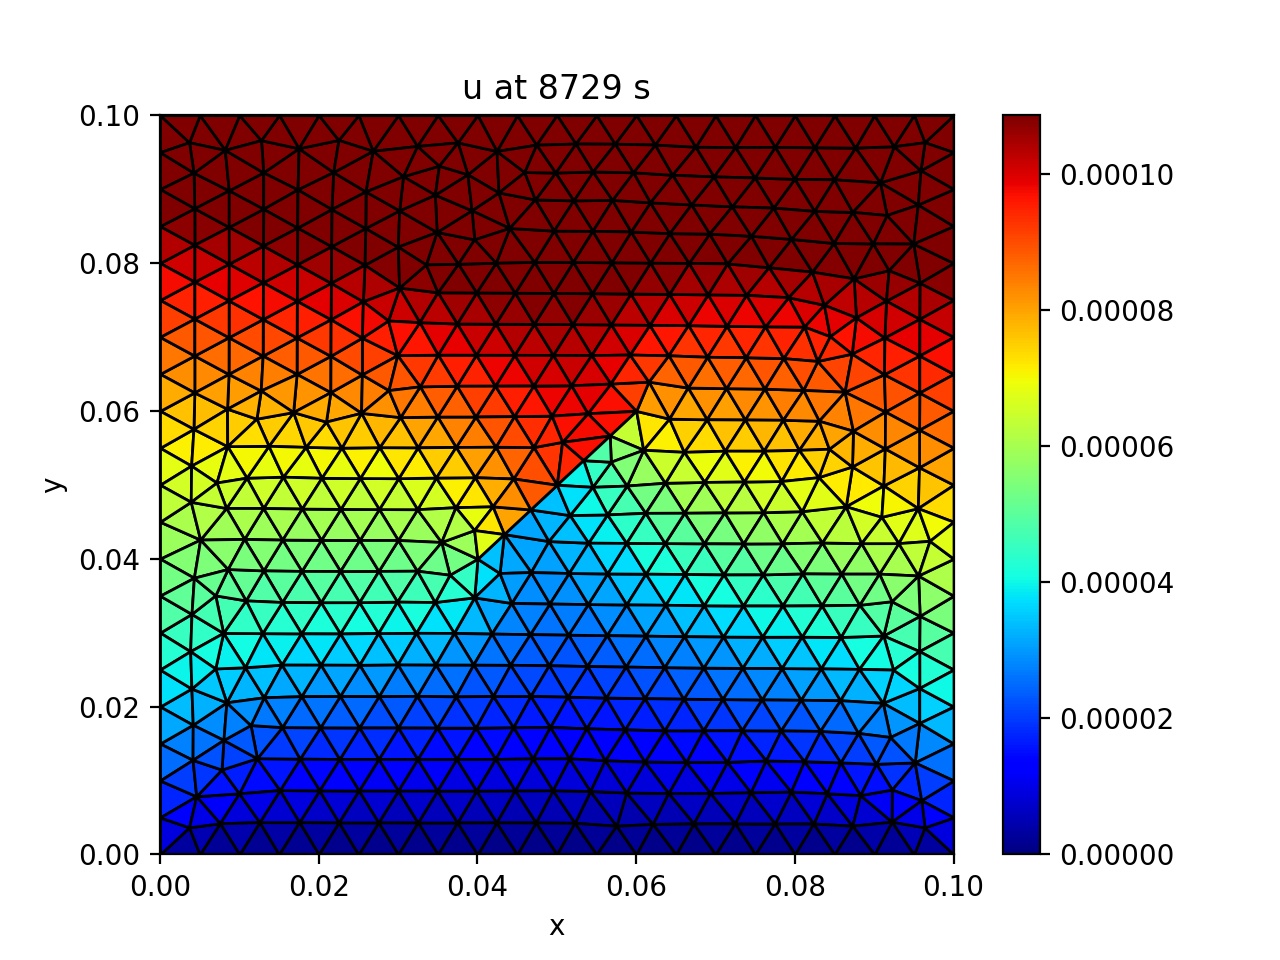
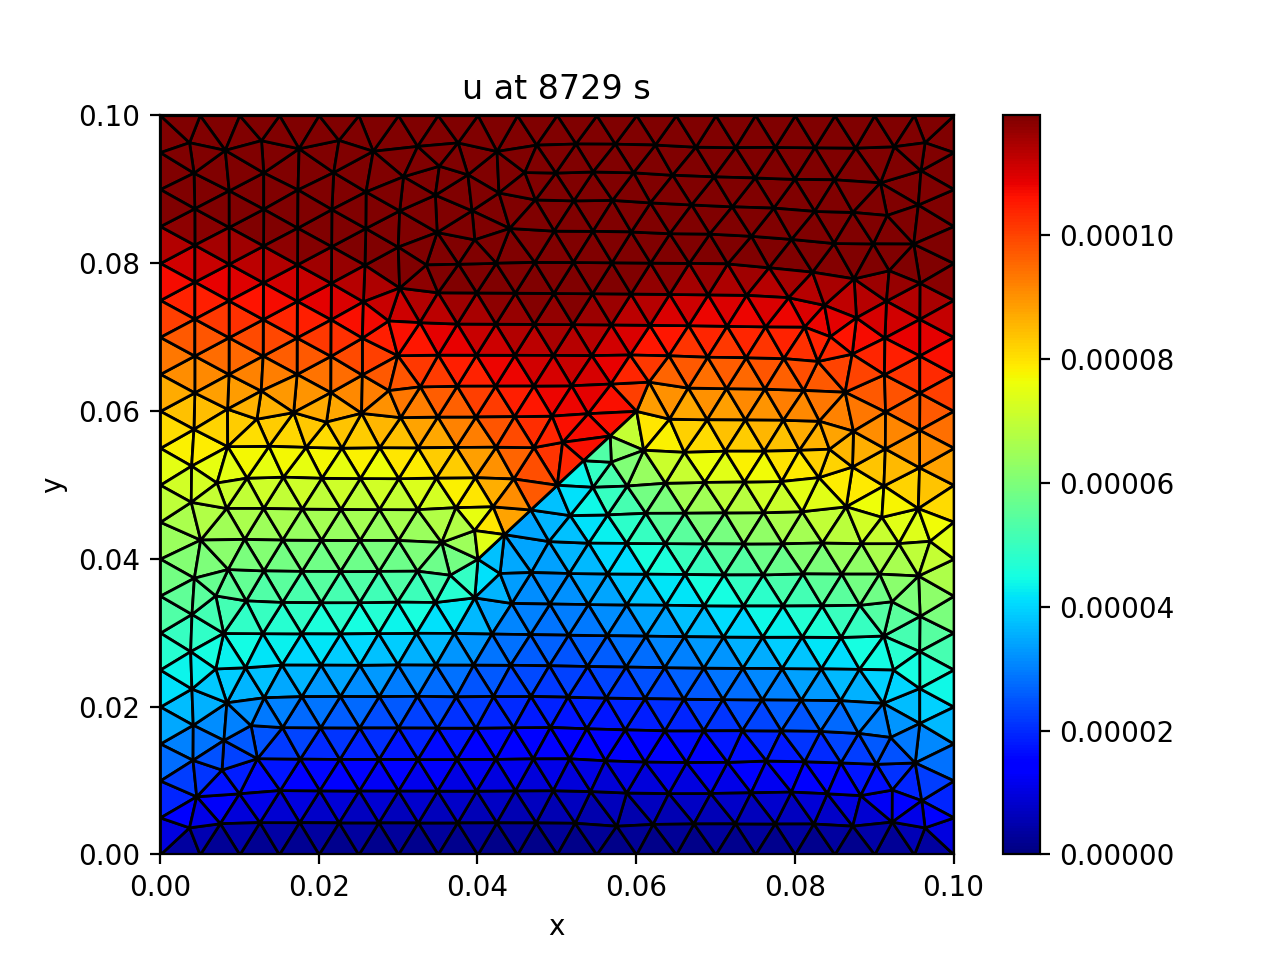
feat: implement plane strain correction and replace cell-based strain measurement with specimen-wide extensometer tracking in viscoelastic model

diff --git a/miki_fix_dt_git3_ne_fracture.py b/miki_fix_dt_git3_ne_fracture.py
@@ -458,20 +458,28 @@ class ViscoelasticMomentumBalance(GeometryMixin, BoundaryConditionsMixin, BodyFo
 if __name__ == "__main__":
 
     dt =  1 * pp.SECOND
-    final_time = 5.0 * pp.HOUR
+    final_time = 8.0 * pp.HOUR
     time_manager = pp.TimeManager(
         schedule=[0.0, final_time],
         dt_init=dt,
         dt_min_max=(0.0 * pp.MINUTE, final_time),
     )
     
+    # Plane strain correction: in 2D, εyy = σ*(1-ν²)/E, but article uses 1D: εyy = σ/E
+    # Scale E by (1-ν²) so that 2D result matches 1D article values
+    nu = 0.3
+    ps_factor = (1.0 - nu**2)  # = 0.91
+    E1 = 2143000000.0 * ps_factor   # E₁ = 2143 MPa (article) × 0.91 for plane strain
+    E2 = 584000000.0 * ps_factor    # E₂ = 584 MPa × 0.91
+    eta = 180000000.0 * ps_factor   # η = 180 MPa·h × 0.91 (preserves relaxation time τ = η/E₂)
+
     solid_constants = ViscoelasticSolidConstants(
-        # E₁ = 2143.0 MPa, E₂ = 584.0 MPa , ν = 0.3 → λ = E*v/((1+v)(1-2v)), μ = E/(2*(1+v))
-        shear_modulus = 2143000000.0 / (2.0 * 1.3),     
-        shear_modulus2 = 584000000.0 / (2.0 * 1.3),    
-        lame_lambda = 2143000000.0 * 0.3 /(1.3 * (1 - 2 * 0.3)),
-        lame_lambda2 = 584000000.0 * 0.3 /(1.3 * (1 - 2 * 0.3)),
-        viscosity=180000000.0 * (60.0 * 60.0), #180.0 MPa*h,
+        # λ = E*ν/((1+ν)(1-2ν)), μ = E/(2*(1+ν))
+        shear_modulus = E1 / (2.0 * (1.0 + nu)),
+        shear_modulus2 = E2 / (2.0 * (1.0 + nu)),
+        lame_lambda = E1 * nu / ((1.0 + nu) * (1.0 - 2.0 * nu)),
+        lame_lambda2 = E2 * nu / ((1.0 + nu) * (1.0 - 2.0 * nu)),
+        viscosity = eta * (60.0 * 60.0),  # convert MPa·h → Pa·s
         fracture_normal_stiffness = 200000000000.0,
         fracture_tangential_stiffness = 100000000000.0
     )
@@ -514,33 +522,46 @@ if __name__ == "__main__":
                 print(f"MAX uy_num: {np.max(np.abs(uy_num))}")
                 print("\n")
 
-                # --- Record strain at monitoring point ---
-                if self._adj_csr is None:
-                    cf = sd.cell_faces.copy()
-                    cf.data = np.abs(cf.data)
-                    self._adj_csr = (cf.T @ cf).tocsr()
-                    monitor_coord = np.array([[0.05], [0.05], [0.0]])
-                    dists = np.linalg.norm(sd.cell_centers - monitor_coord, axis=0)
-                    self._monitor_cell = np.argmin(dists)
-                    print(f"--- Strain monitor cell: {self._monitor_cell}, "
-                          f"at ({sd.cell_centers[0, self._monitor_cell]:.4f}, "
-                          f"{sd.cell_centers[1, self._monitor_cell]:.4f}) ---")
-
-                exx_u, eyy_u, exy_u = compute_strain_at_cell(
-                    sd, u_vec, self._monitor_cell, self._adj_csr, self.nd)
+                # --- Record average specimen strain (extensometer: uy_top / height) ---
+                if not hasattr(self, '_top_cells') or self._top_cells is None:
+                    # One-time initialization: find cells near the top boundary
+                    self._domain_height = 0.1  # domain is 0.1 m tall
+                    # Top cells: cells whose centers have y > 0.09 (top 10% of domain)
+                    y_coords = sd.cell_centers[1, :]
+                    y_threshold = 0.09  # top 10% of domain
+                    self._top_cells = np.where(y_coords > y_threshold)[0]
+                    if len(self._top_cells) == 0:
+                        # Fallback: use top 20% of cells
+                        y_threshold = 0.08
+                        self._top_cells = np.where(y_coords > y_threshold)[0]
+                    print(f"--- Strain measurement: extensometer (uy_top / height) ---")
+                    print(f"--- Domain height: {self._domain_height:.4f} m ---")
+                    print(f"--- Top cells (y > {y_threshold}): {len(self._top_cells)} ---")
+                    print(f"--- Mean y of top cells: {np.mean(y_coords[self._top_cells]):.4f} ---")
 
                 u2_vec = np.array(self.equation_system.evaluate(
                     self.displacement2(self.mdg.subdomains(dim=self.nd)))).ravel()
-                exx_u2, eyy_u2, exy_u2 = compute_strain_at_cell(
-                    sd, u2_vec, self._monitor_cell, self._adj_csr, self.nd)
+
+                # Reshape displacements: row 0 = ux, row 1 = uy
+                u_2d = u_vec.reshape(self.nd, -1, order='F')
+                u2_2d = u2_vec.reshape(self.nd, -1, order='F')
+
+                # Extensometer: εyy = mean(uy at top cells) / height
+                eyy_u_avg = np.mean(u_2d[1, self._top_cells]) / self._domain_height
+                exx_u_avg = np.mean(u_2d[0, self._top_cells]) / self._domain_height
+                exy_u_avg = 0.0
+                # For u2:
+                eyy_u2_avg = np.mean(u2_2d[1, self._top_cells]) / self._domain_height
+                exx_u2_avg = np.mean(u2_2d[0, self._top_cells]) / self._domain_height
+                exy_u2_avg = 0.0
 
                 self.strain_history['times'].append(self.time_manager.time / 3600.0)
-                self.strain_history['exx_u'].append(exx_u)
-                self.strain_history['eyy_u'].append(eyy_u)
-                self.strain_history['exy_u'].append(exy_u)
-                self.strain_history['exx_u2'].append(exx_u2)
-                self.strain_history['eyy_u2'].append(eyy_u2)
-                self.strain_history['exy_u2'].append(exy_u2)
+                self.strain_history['exx_u'].append(exx_u_avg)
+                self.strain_history['eyy_u'].append(eyy_u_avg)
+                self.strain_history['exy_u'].append(exy_u_avg)
+                self.strain_history['exx_u2'].append(exx_u2_avg)
+                self.strain_history['eyy_u2'].append(eyy_u2_avg)
+                self.strain_history['exy_u2'].append(exy_u2_avg)
 
                                     
             
@@ -602,18 +623,19 @@ if __name__ == "__main__":
         t = np.array(model.strain_history['times'])
         me = max(1, len(t) // 20)  # marker spacing
 
-        # --- Single-panel: epsilon_yy vs time (main creep curve) ---
+        # --- Single-panel: |epsilon_yy| vs time — matching article Figure 3 ---
         fig1, ax1 = plt.subplots(figsize=(8, 6))
         eyy_u = np.array(model.strain_history['eyy_u'])
         eyy_u2 = np.array(model.strain_history['eyy_u2'])
 
-        ax1.plot(t, eyy_u * 100, 'b-o', markevery=me, markersize=5,
-                 linewidth=1.5, label=r'$\varepsilon_{yy}(u)$ \u2014 total')
-        ax1.plot(t, eyy_u2 * 100, 'r-s', markevery=me, markersize=5,
-                 linewidth=1.5, label=r'$\varepsilon_{yy}(u_2)$ \u2014 viscous branch')
-        ax1.set_xlabel(r'$t$ (h)')
-        ax1.set_ylabel(r'$\varepsilon_{yy}$ (%)')
-        ax1.legend(framealpha=1.0, edgecolor='black', fancybox=False)
+        # Show absolute value (article shows positive strain for compression)
+        ax1.plot(t, np.abs(eyy_u) * 100, 'r-', linewidth=1.5,
+                 label='Simulation with the proposed model')
+        ax1.set_xlabel('Time (h)', fontsize=13)
+        ax1.set_ylabel('Strain (%)', fontsize=13)
+        ax1.set_xlim(0, 8)
+        ax1.set_ylim(0.10, 0.15)
+        ax1.legend(framealpha=1.0, edgecolor='black', fancybox=False, loc='lower right')
         ax1.grid(True, alpha=0.3)
         for spine in ax1.spines.values():
             spine.set_linewidth(1.5)
